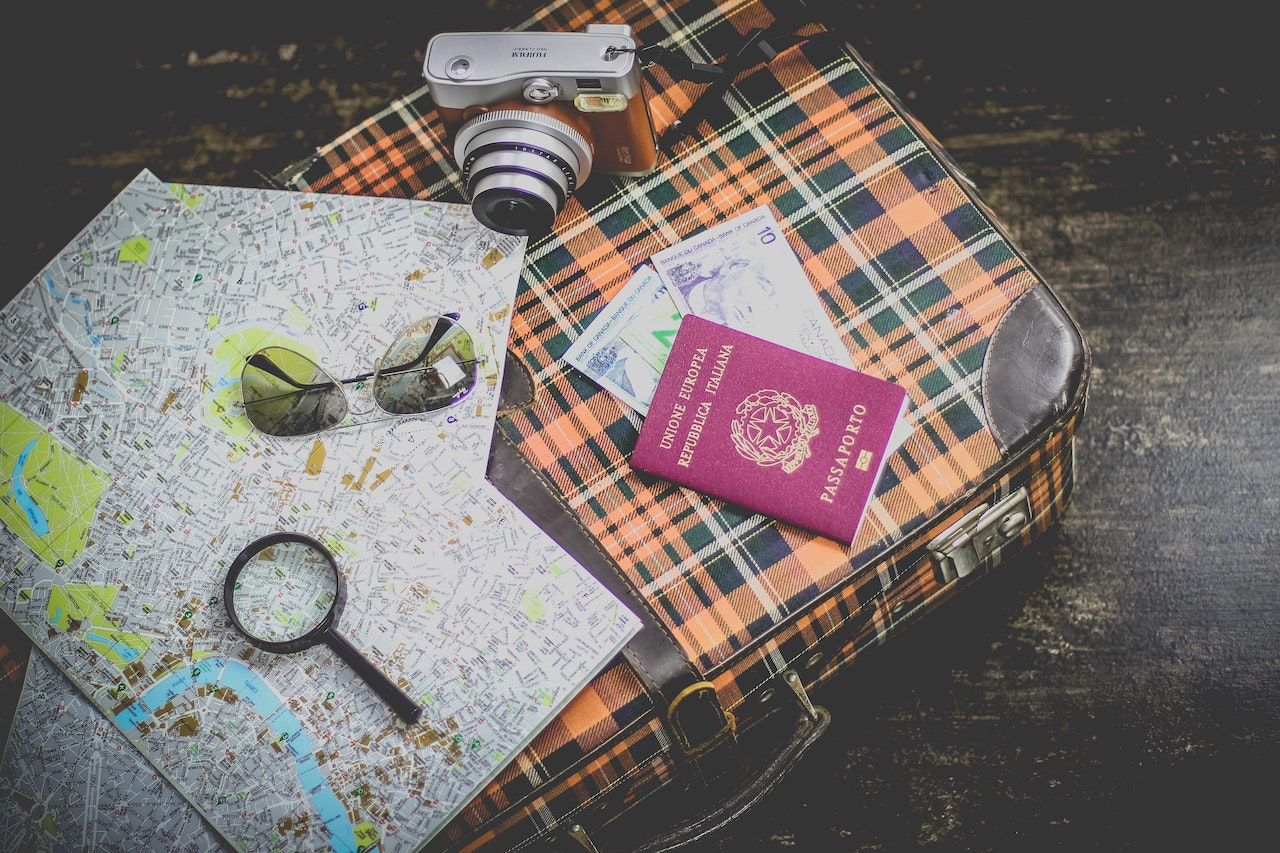
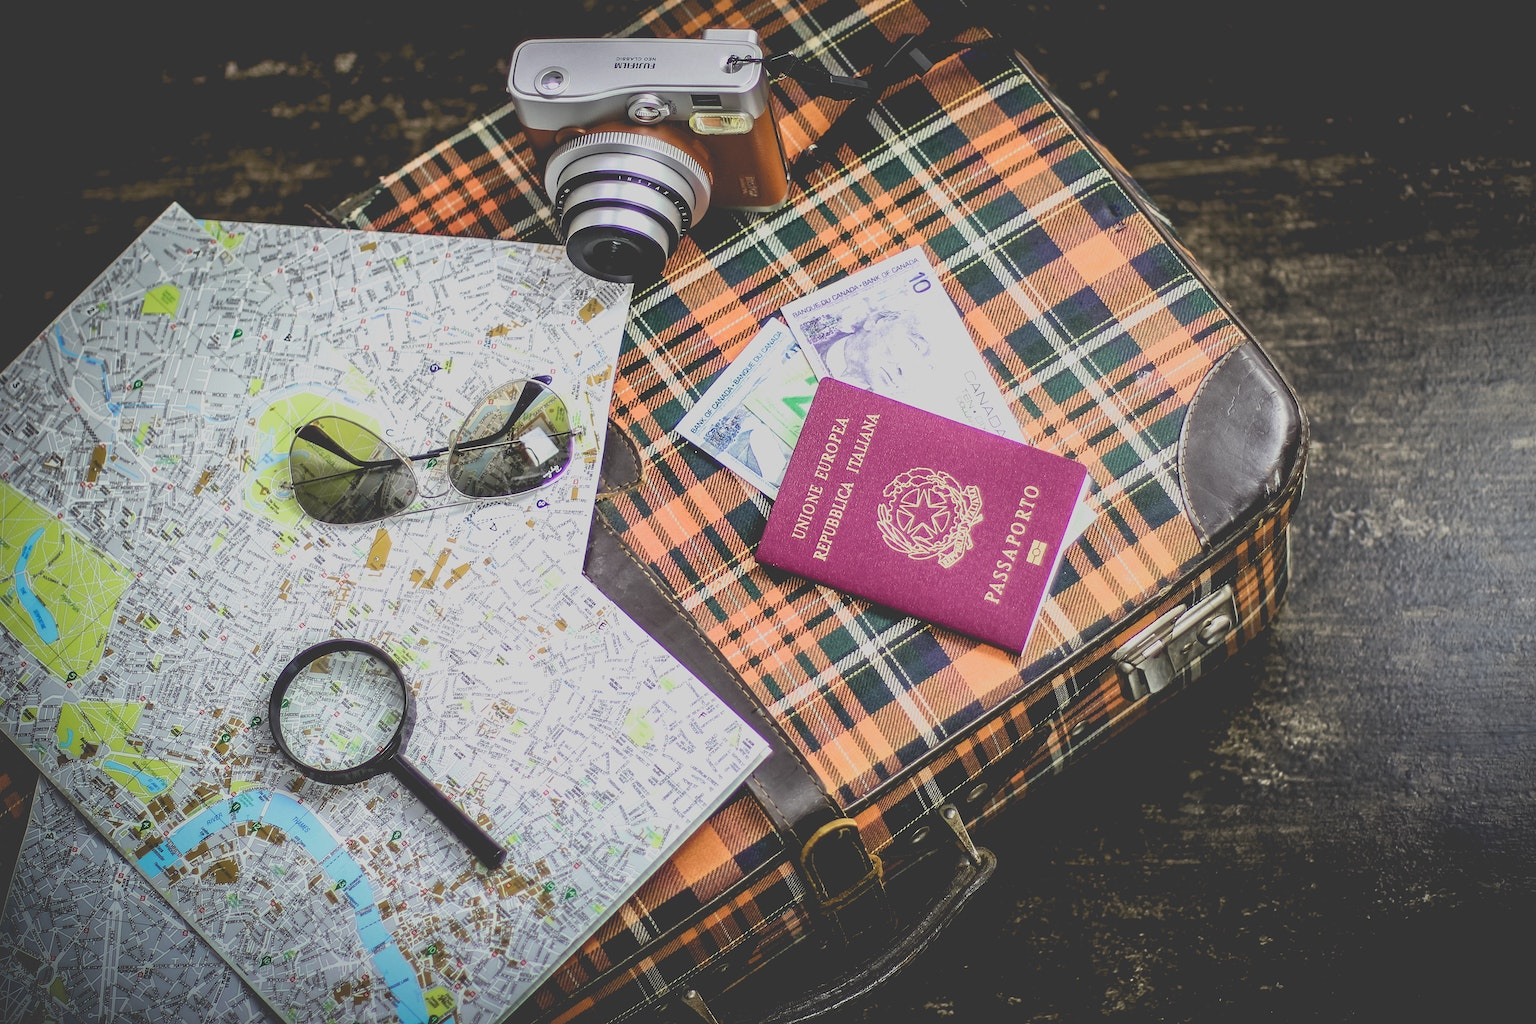
Add hero image for the new xl breakpoint

diff --git a/src/components/Hero.jsx b/src/components/Hero.jsx
@@ -3,7 +3,7 @@ import Img from "gatsby-image"
 import PropTypes from "prop-types"
 import React from "react"
 
-export const Hero = props => {
+export const Hero = (props) => {
   const { description, image, tag, title } = props
 
   return (
@@ -62,7 +62,7 @@ export const query = graphql`
       mobile: fixed(width: 768, height: 240, quality: 80, cropFocus: CENTER) {
         ...GatsbyImageSharpFixed_withWebp
       }
-      desktop: fixed(width: 1248, height: 280, quality: 85, cropFocus: SOUTH) {
+      desktop: fixed(width: 1496, height: 280, quality: 85, cropFocus: SOUTH) {
         ...GatsbyImageSharpFixed_withWebp
       }
     }
